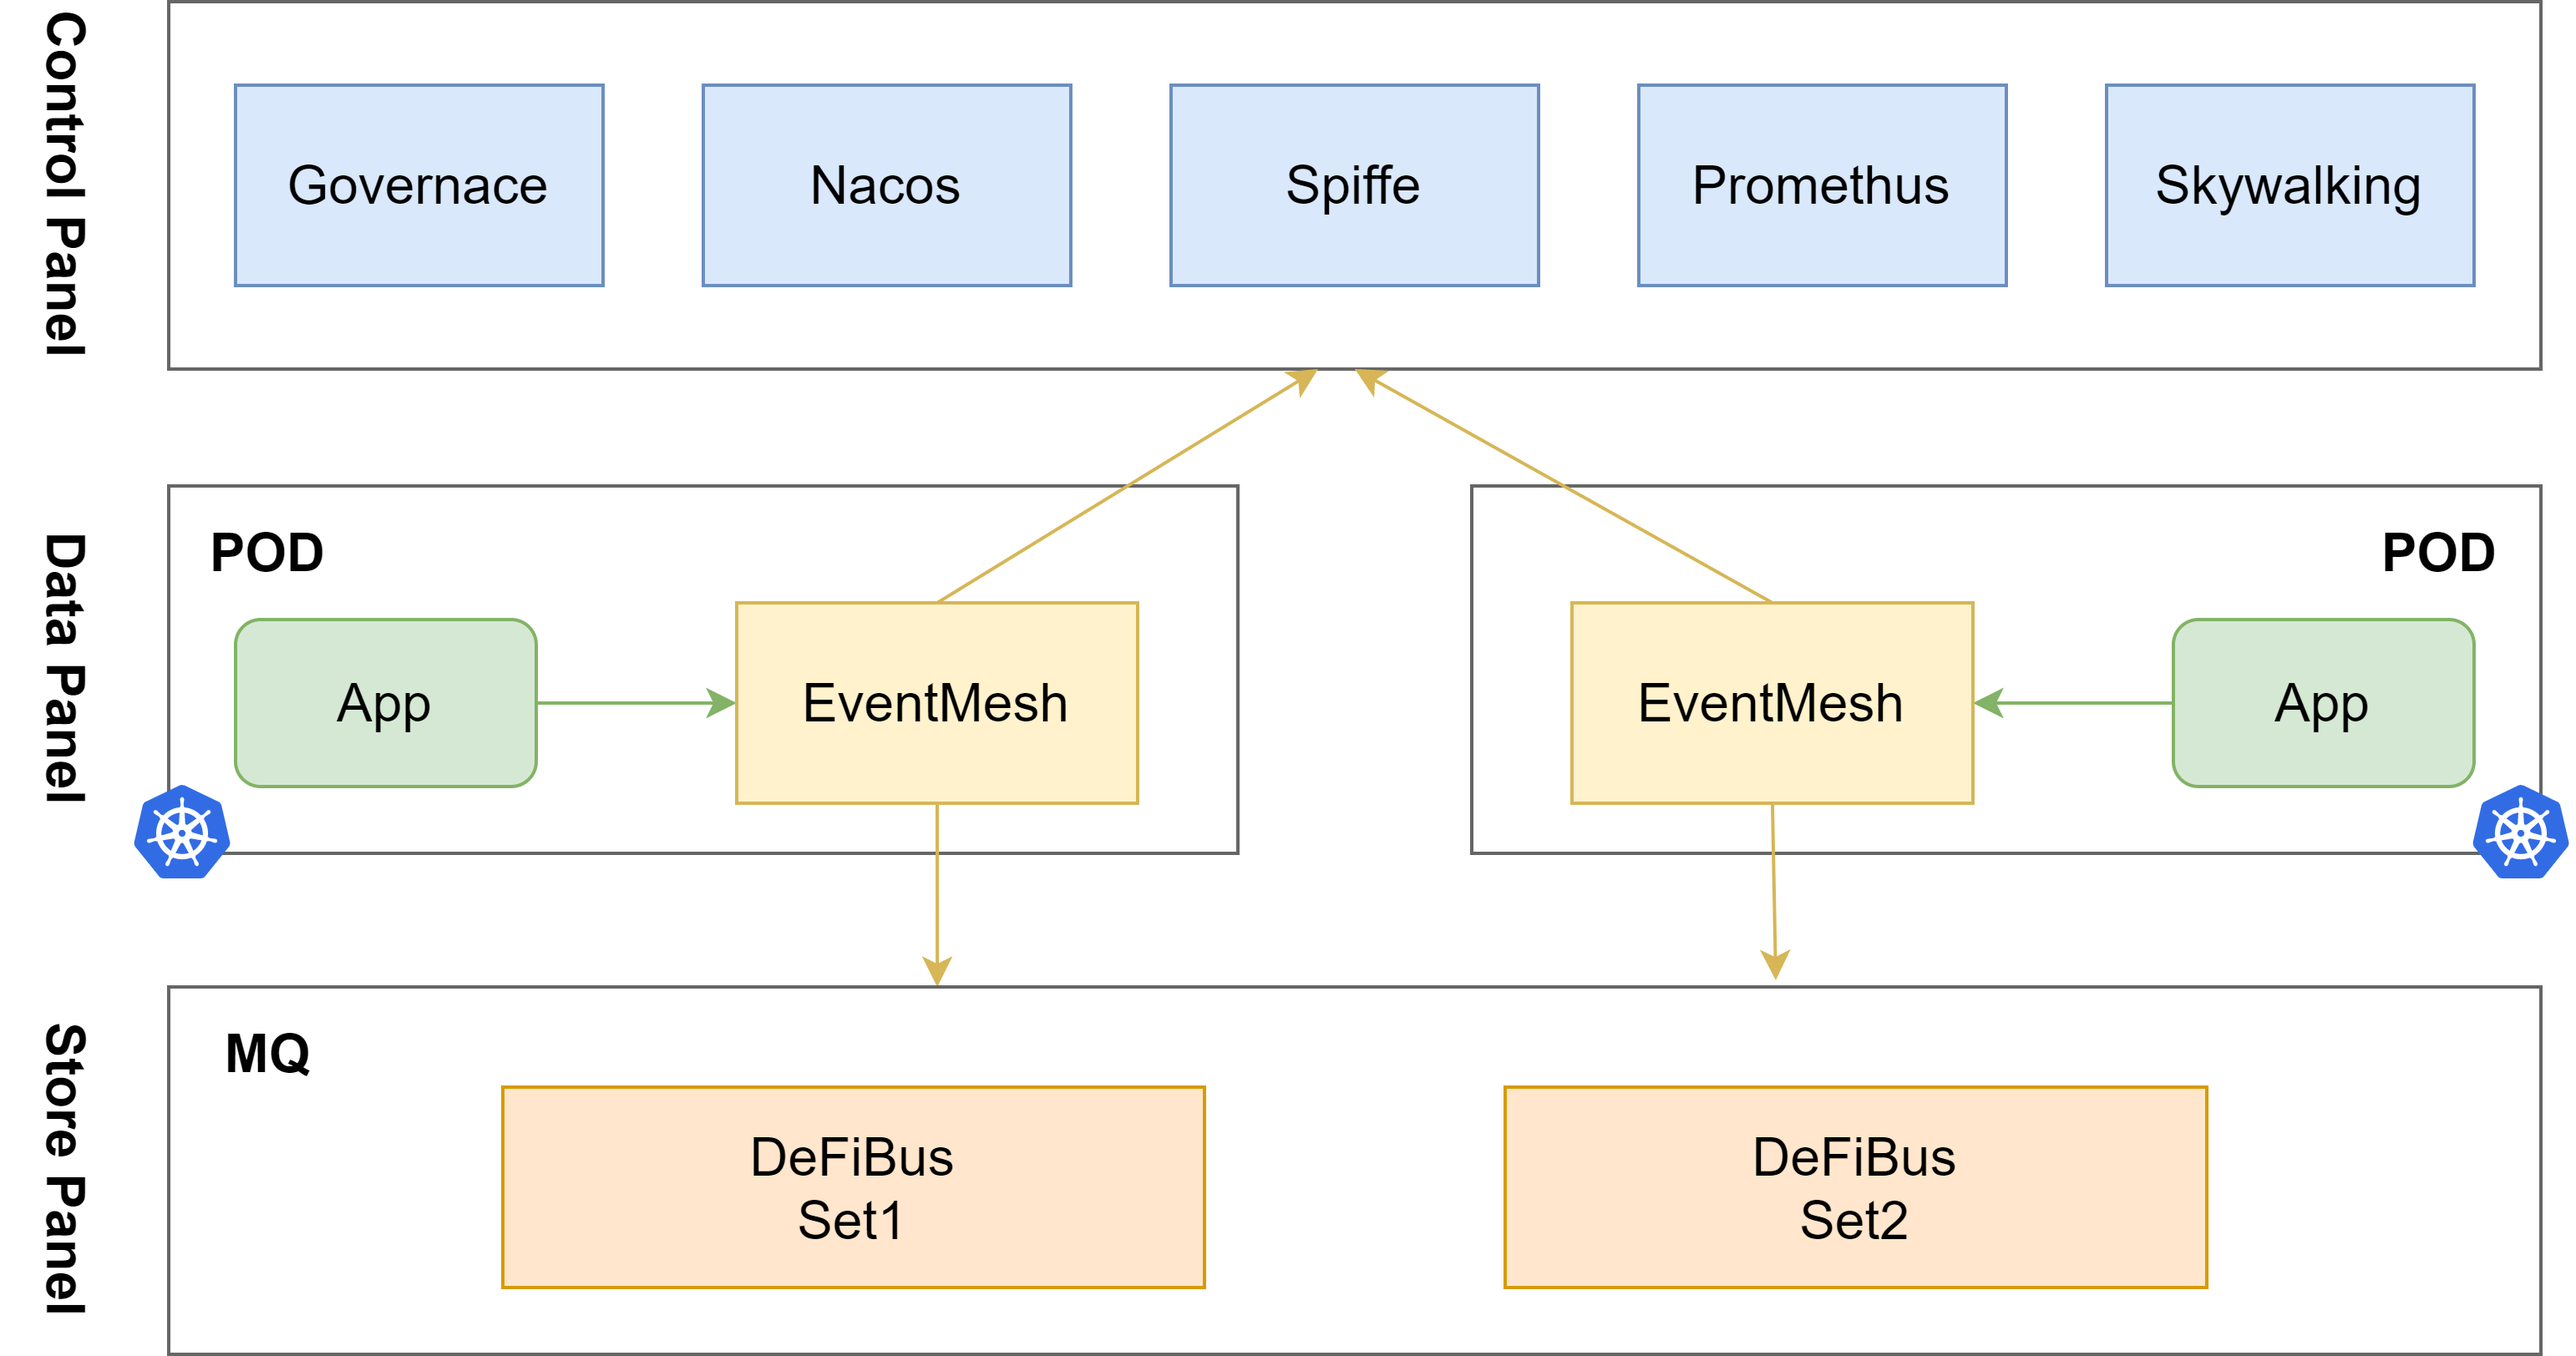
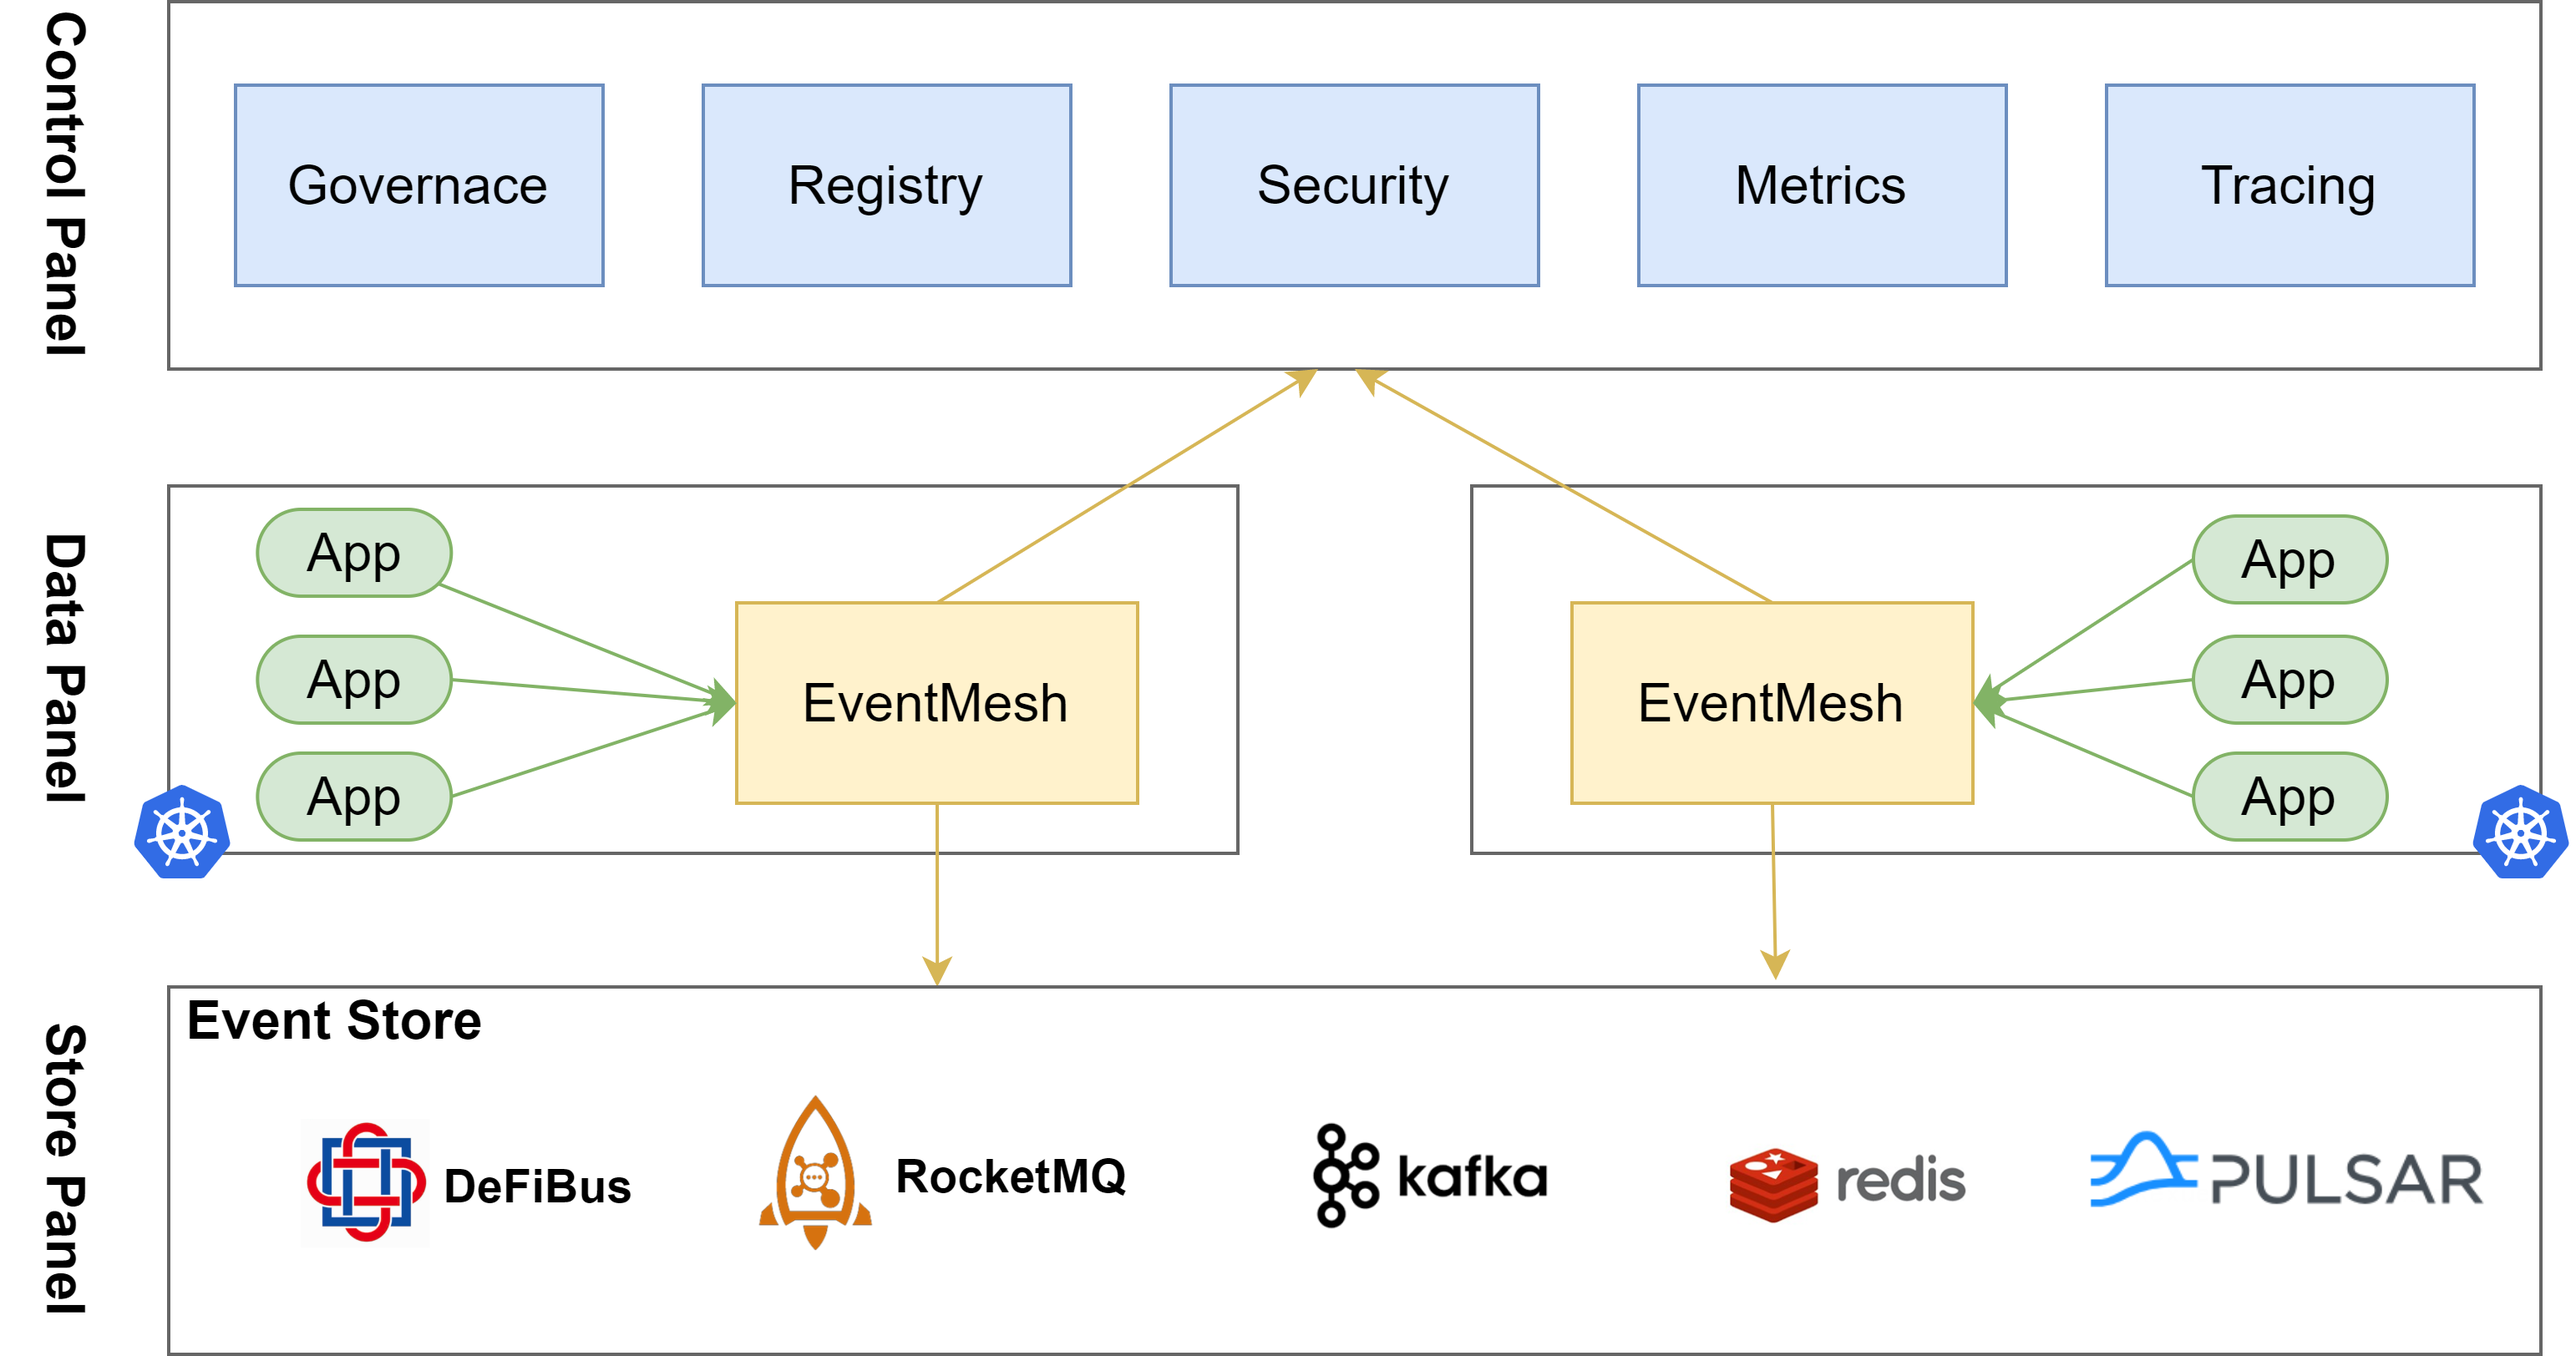
1.modify eventmesh README.md 2.modify eventmesh structure pictures

diff --git a/README.md b/README.md
@@ -14,7 +14,7 @@ Event Mesh is a dynamic plug-in cloud-native basic service layer used to decoupl
 
 ![architecture1](docs/images/eventmesh-runtime.png)
 
-Cloud Native Event Mesh:
+**Cloud Native Event Mesh:**
 
 ![architecture2](docs/images/eventmesh-panels.png)
 
@@ -25,14 +25,20 @@ General functions of the event mesh:
 * Dynamic routing;
 * Cloud native
 
-Dependent components:
+**Dependent components:**
+
 * DeFiBus : a distributed messaging platform with low latency, high performance and reliability, flexible scalability. [DeFiBus](https://github.com/WeBankFinTech/DeFiBus)
 * RocketMQ
 
-Key components:
+**Key components:**
+
 * eventmesh-runtime : an middleware to transmit events between event producers and consumers, support cloud native apps and microservices
 * eventmesh-sdk-java : currently supports HTTP and TCP protocols, and will support gRPC in the future
 * eventmesh-registry : automatically routes events between applications and services connected to seperate event meshers, manage eventmesh-runtime
+
+**Protocol:**
+
+The protocol of eventmesh is more easily and convenient, you can read more [here](docs/cn/instructions/eventmesh-runtime-protocol.zh-CN.md)
 
 ## RoadMap
 | version | feature |
